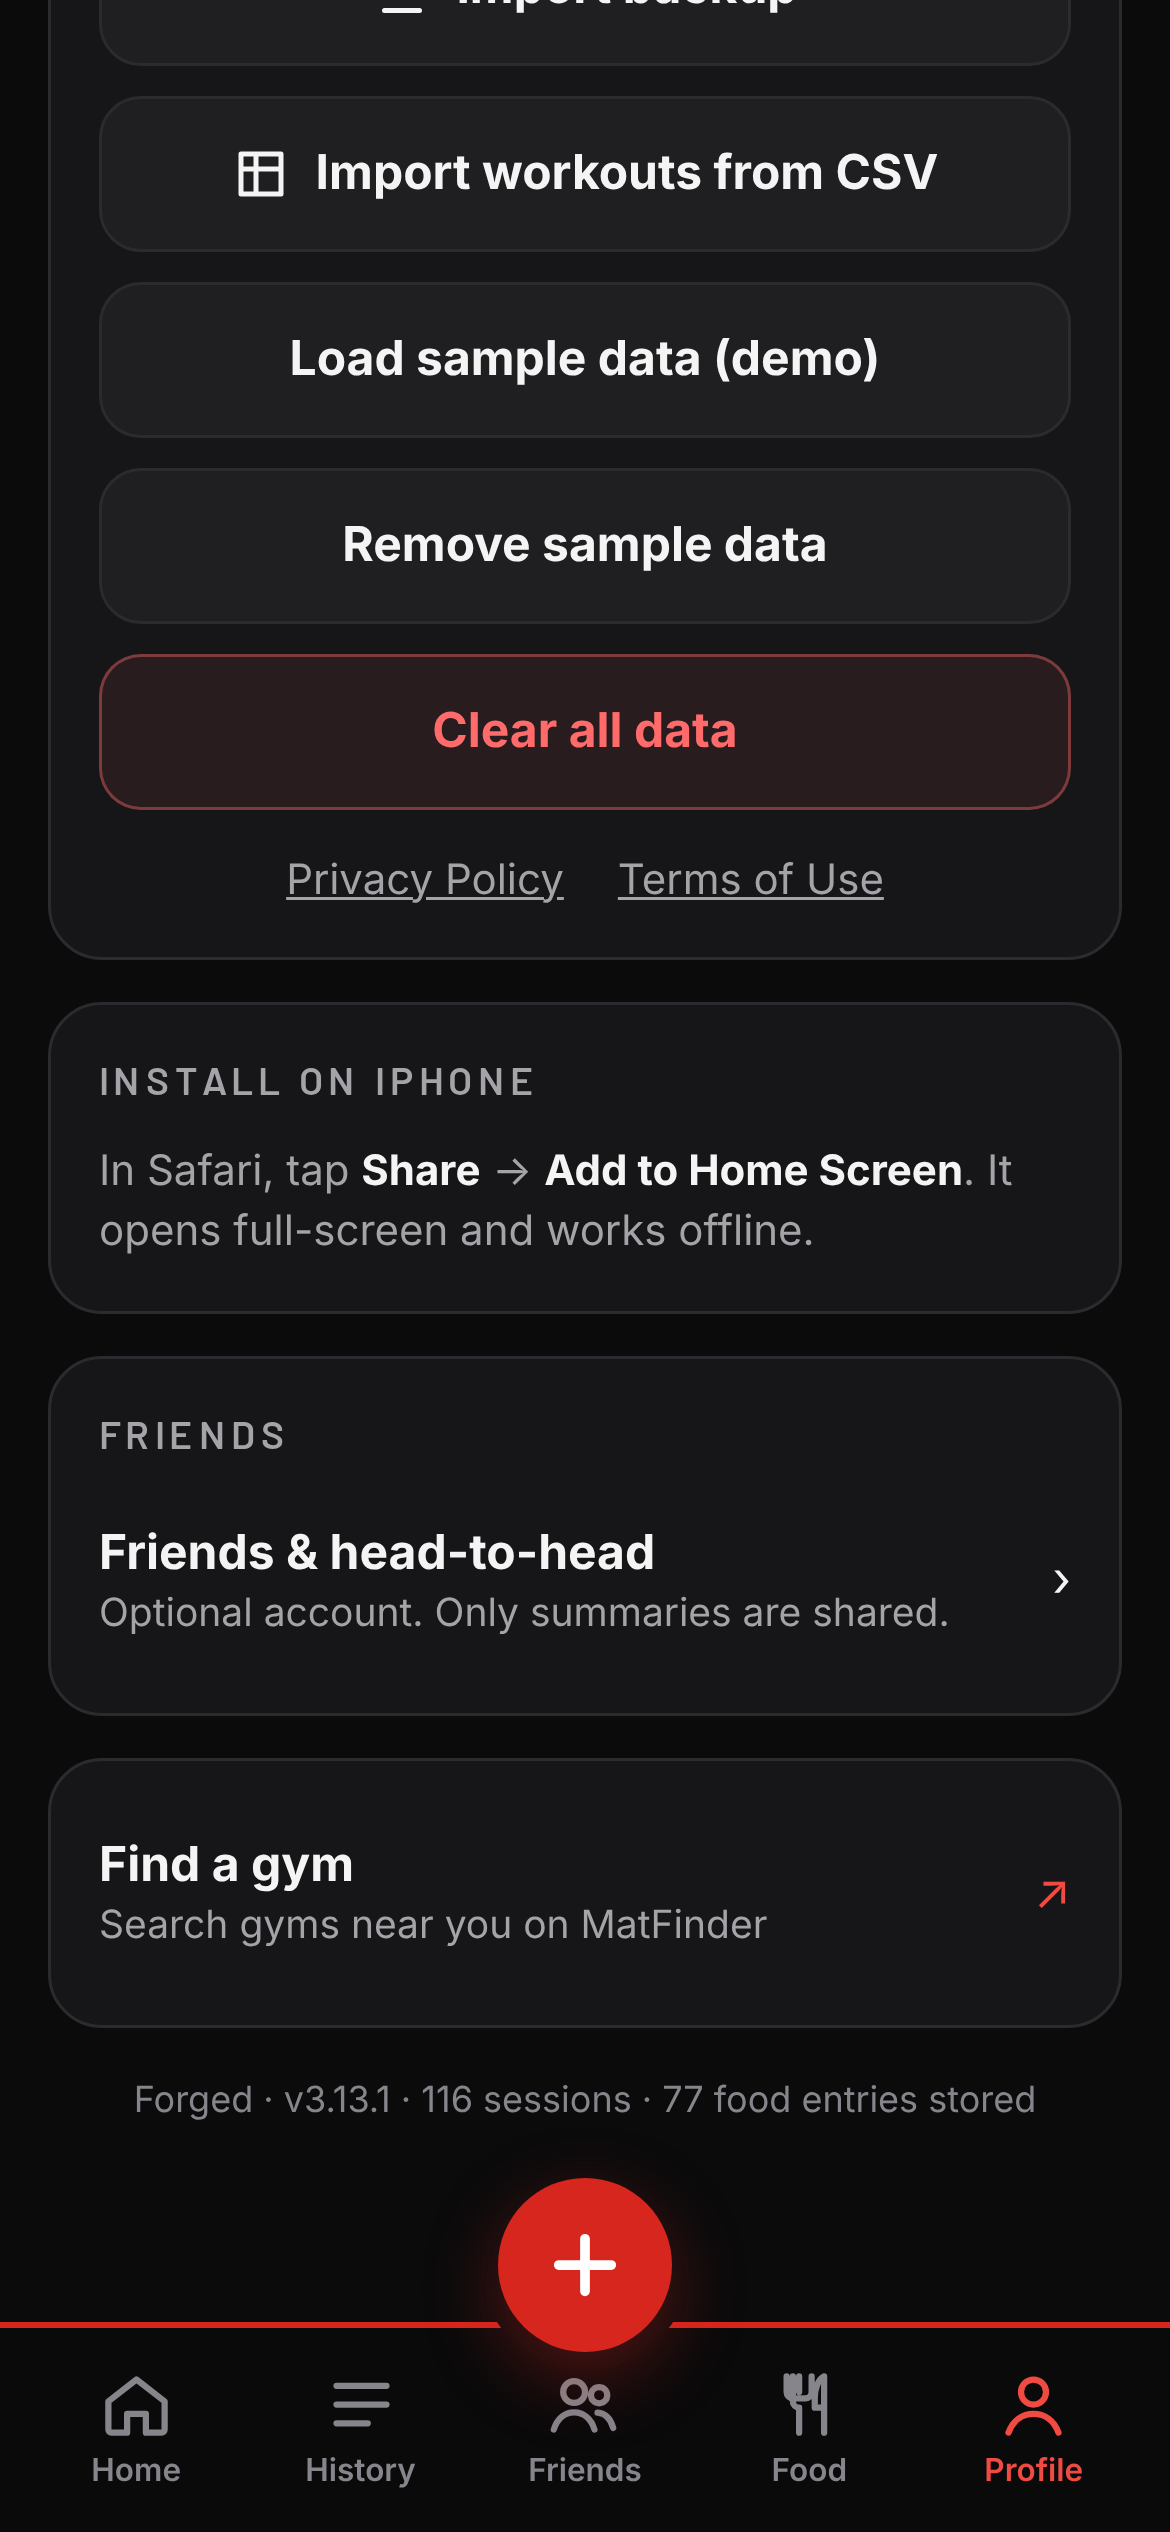
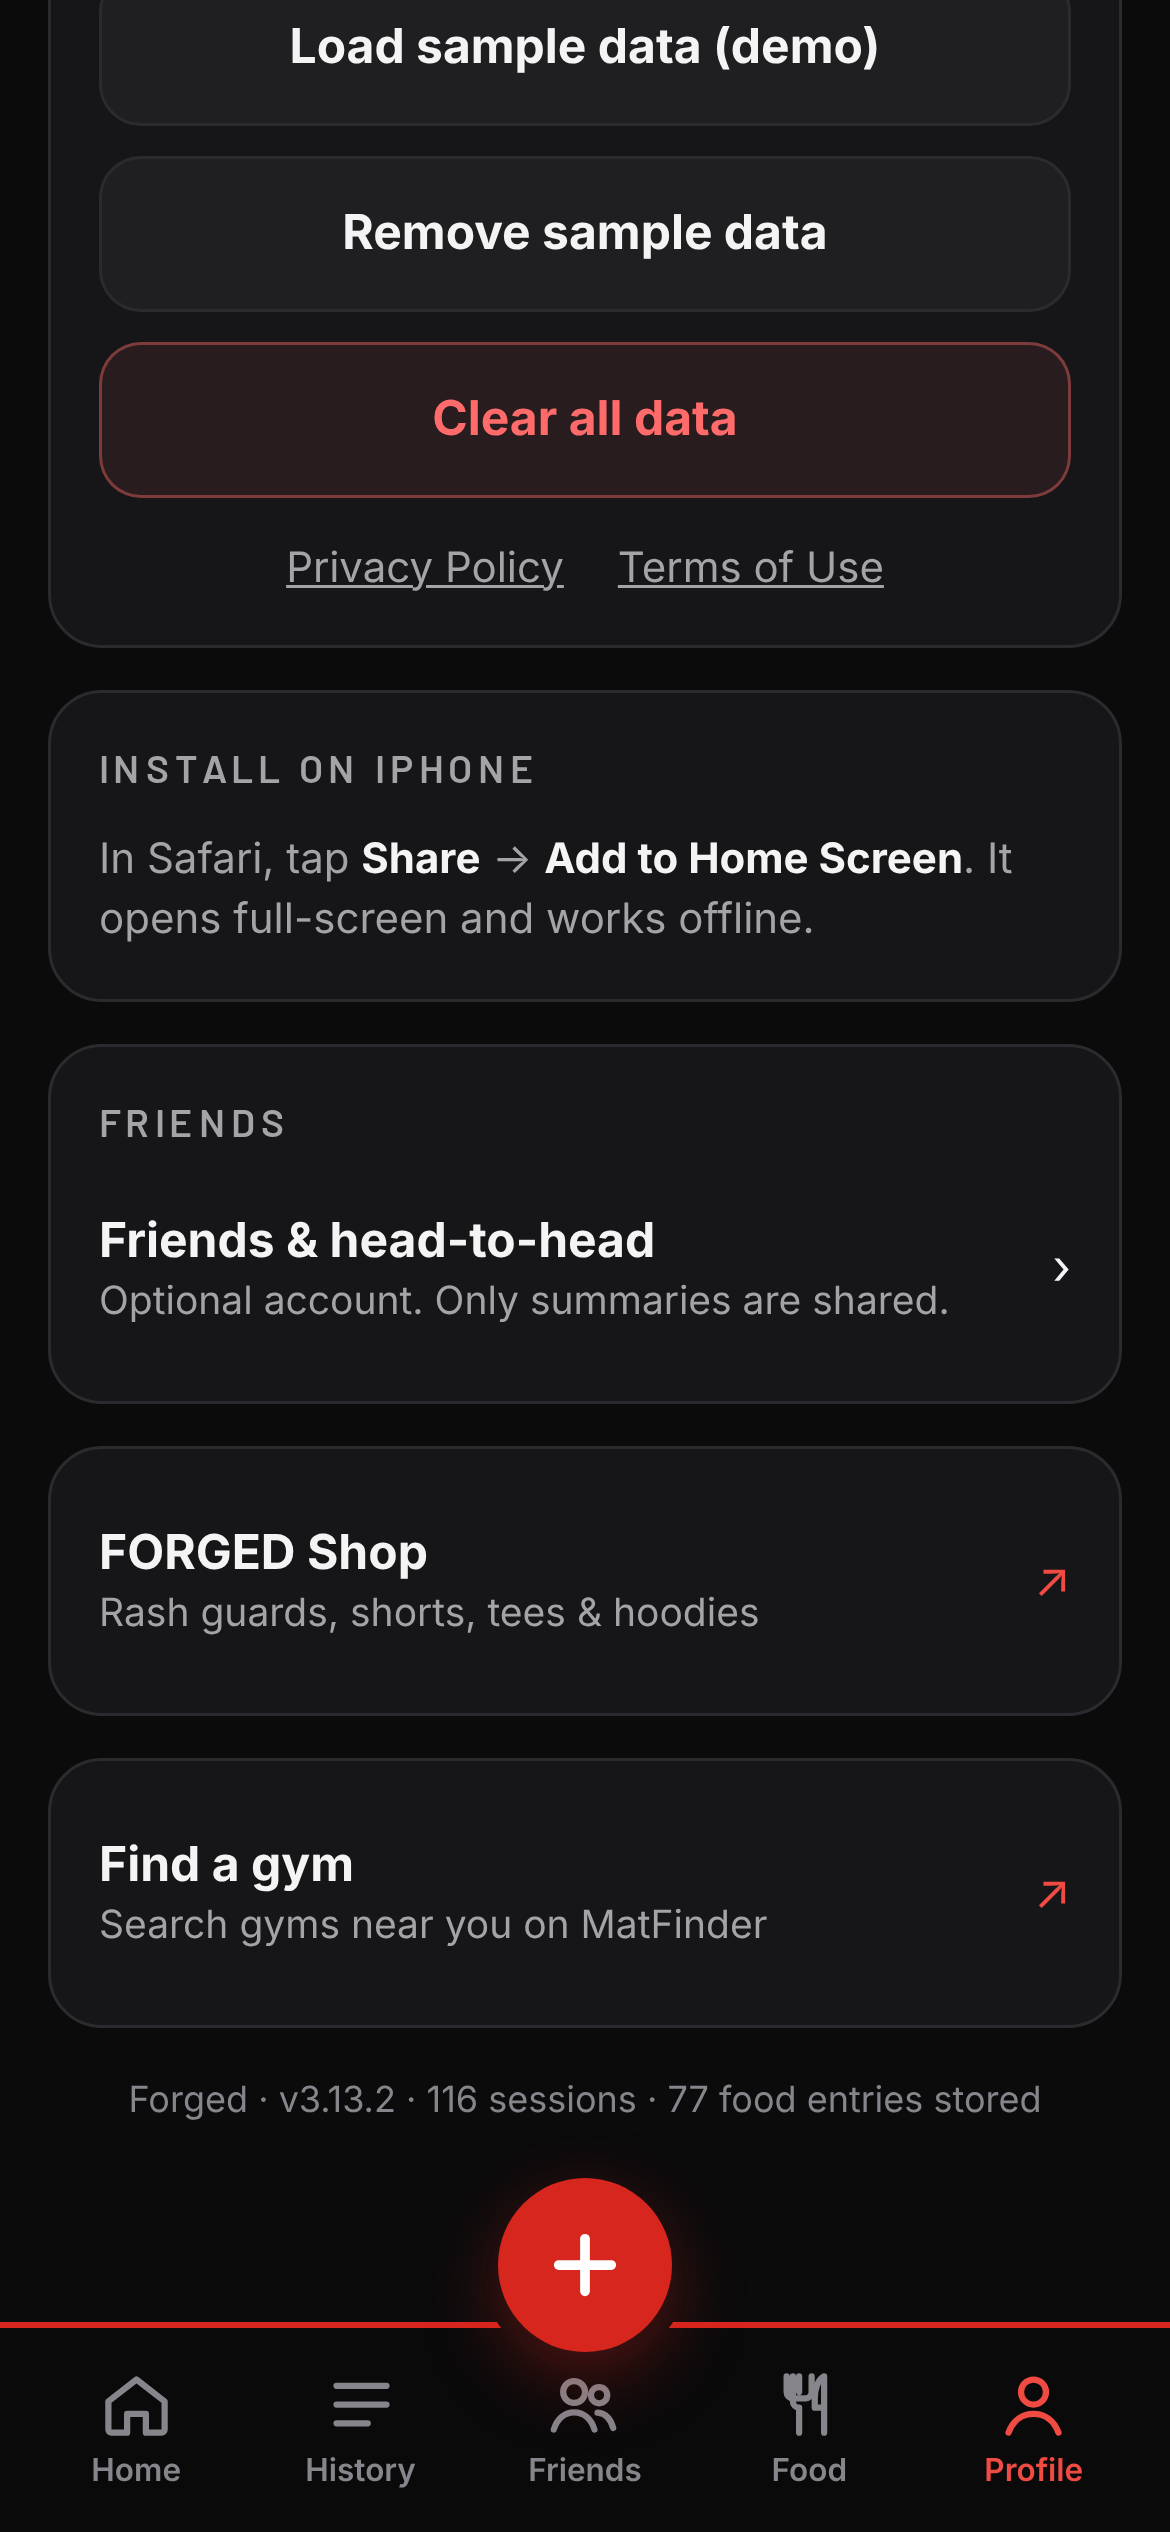
3.13.2: FORGED Shop row in Profile

diff --git a/app.js b/app.js
@@ -4,7 +4,7 @@
 'use strict';
 
 const STORE_KEY = 'dm.bjj.v1';
-const APP_VERSION = '3.13.1';
+const APP_VERSION = '3.13.2';
 
 const SUBMISSIONS = ['Rear naked choke','Armbar','Triangle','Kimura','Guillotine','Americana','Darce','Anaconda','Arm triangle','Ezekiel','Bow and arrow','Cross collar choke','Loop choke','Baseball bat choke','North-south choke','Omoplata','Straight ankle lock','Heel hook','Kneebar','Toe hold','Calf slicer','Wrist lock','Gogoplata','Paper cutter','Clock choke','Von Flue choke','Banana split','Estima lock'];
 const POSITIONS = ['Bottom side control','Bottom mount','Back taken','Turtle','Bottom half guard','Closed guard (bottom)','Stuck in closed guard','Knee on belly','North-south bottom','Can\'t pass half guard','Can\'t pass De La Riva','Can\'t pass butterfly','Leg entanglement','Front headlock','Getting stalled','Guard pulled on me'];
@@ -2518,6 +2518,9 @@ function viewSettings(){
   v.appendChild(h(`<div class="card"><h2>Install on iPhone</h2><div style="color:var(--muted);font-size:14px">In Safari, tap <b style="color:var(--text)">Share</b> → <b style="color:var(--text)">Add to Home Screen</b>. It opens full-screen and works offline.</div></div>`));
   if (socialOn()) v.appendChild(h(`<div class="card" id="friendsCard"><h2>Friends</h2><a class="list-row" href="#/friends" id="friendsProfileLink" style="text-decoration:none;color:inherit"><div class="grow"><b>Friends &amp; head-to-head</b><small>${sUser() ? `Signed in as ${esc(sUser().email)}` : 'Optional account. Only summaries are shared.'}</small></div>›</a></div>`));
   // 3.13.0: medals, badges and looks removed from Profile (data kept, not shown)
+  { const SH = 'http://forgedfight.com/shop/', row = h(`<div class="card" id="shopCard"><a class="list-row" id="forgedShop" href="${SH}" target="_blank" rel="noopener" style="text-decoration:none;color:inherit"><div class="grow"><b>FORGED Shop</b><small>Rash guards, shorts, tees &amp; hoodies</small></div><span style="color:var(--accent)">↗</span></a></div>`);
+    row.querySelector('#forgedShop').onclick = e => { e.preventDefault(); try { window.open(SH, window.Capacitor?.isNativePlatform?.() ? '_system' : '_blank', 'noopener'); } catch(x) { location.href = SH; } };
+    v.appendChild(row); }
   { const MF = 'https://matfinderhq.vercel.app', row = h(`<div class="card" id="findGymCard"><a class="list-row" id="findGym" href="${MF}" target="_blank" rel="noopener" style="text-decoration:none;color:inherit"><div class="grow"><b>Find a gym</b><small>Search gyms near you on MatFinder</small></div><span style="color:var(--accent)">↗</span></a></div>`);
     row.querySelector('#findGym').onclick = e => { e.preventDefault(); try { window.open(MF, window.Capacitor?.isNativePlatform?.() ? '_system' : '_blank', 'noopener'); } catch(x) { location.href = MF; } };
     v.appendChild(row); }

diff --git a/sw.js b/sw.js
@@ -1,5 +1,5 @@
 /* Forged service worker: caches the app shell for offline use. */
-const CACHE = 'forged-shell-v3.13.1';
+const CACHE = 'forged-shell-v3.13.2';
 const SHELL = [
   './', 'index.html', 'styles.css', 'config.js', 'social.js', 'app.js', 'programs.js', 'tips.js', 'foods.js', 'tutorial.js', 'manifest.webmanifest', 'privacy.html', 'terms.html',
   'vendor/supabase-js-2.117.2.js',
